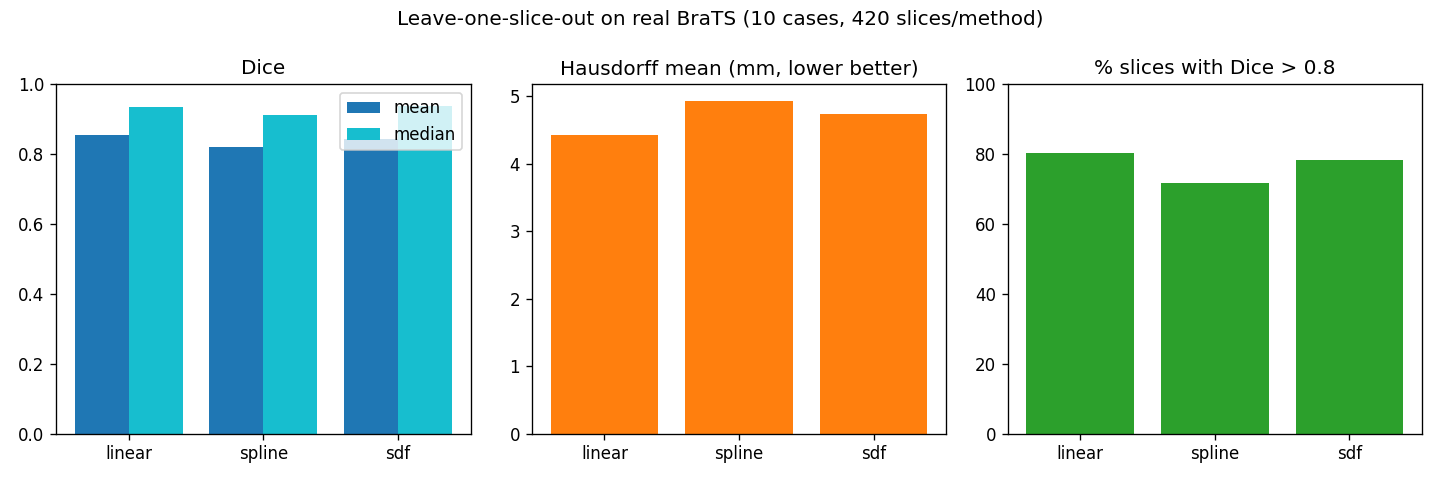
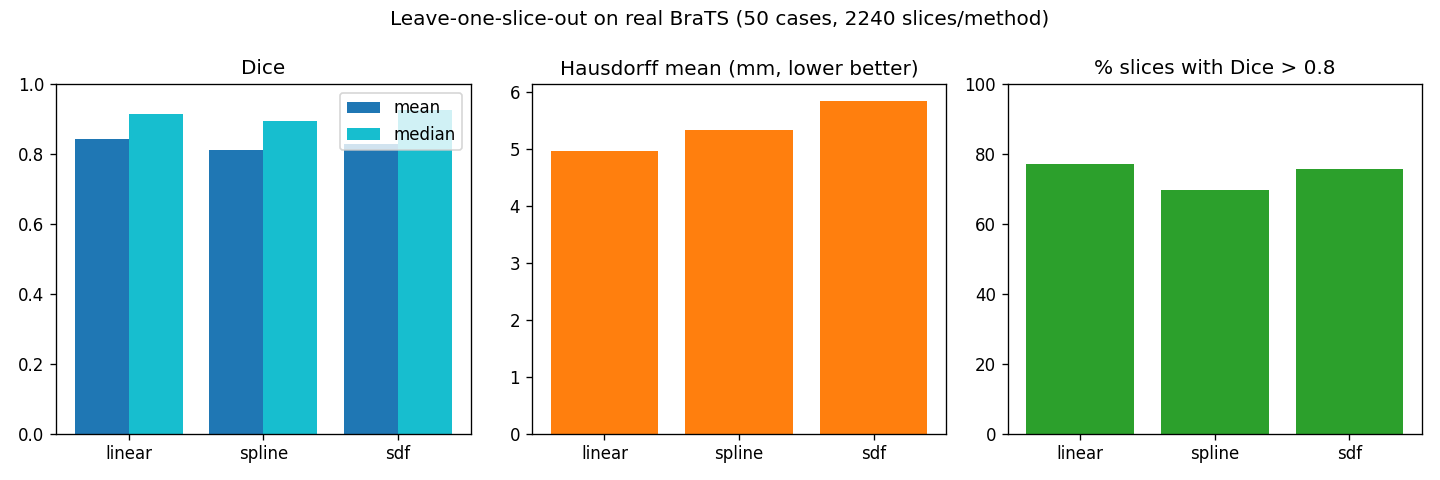
results(final-project): 50-case study + 8-tumor selector dashboard
- RESULTS.md updated to 50 cases / 2240 held-out slices (linear Dice 0.84 mean /
  0.92 median / 77% > 0.8; sdf close; spline weakest). Volume vs voxel GT now
  ratio ~1.00-1.16 on the shown cases.
- Commit built dashboard.html (8-tumor dropdown) under assets/; refresh figures.
- run_real_study: lighter GT marching-cubes (step 3) for smaller dashboards.

diff --git a/src/final-project-interpolation/scripts/run_real_study.py b/src/final-project-interpolation/scripts/run_real_study.py
@@ -125,7 +125,7 @@ def main() -> int:
         cdir = str(contours / case)
         seg = ds / case / f"{case}-seg.nii.gz"
         gt_vol = voxel_volume_mm3(seg) if seg.exists() else float("nan")
-        if seg.exists() and gt_surface(seg, str(out / f"mesh_{case}_gt.off")):
+        if seg.exists() and gt_surface(seg, str(out / f"mesh_{case}_gt.off"), step=3):
             run([sys.executable, str(HERE / "render_mesh.py"),
                  str(out / f"mesh_{case}_gt.off"),
                  str(out / f"mesh_{case}_gt.png"), "--title", f"{case} ground truth"])